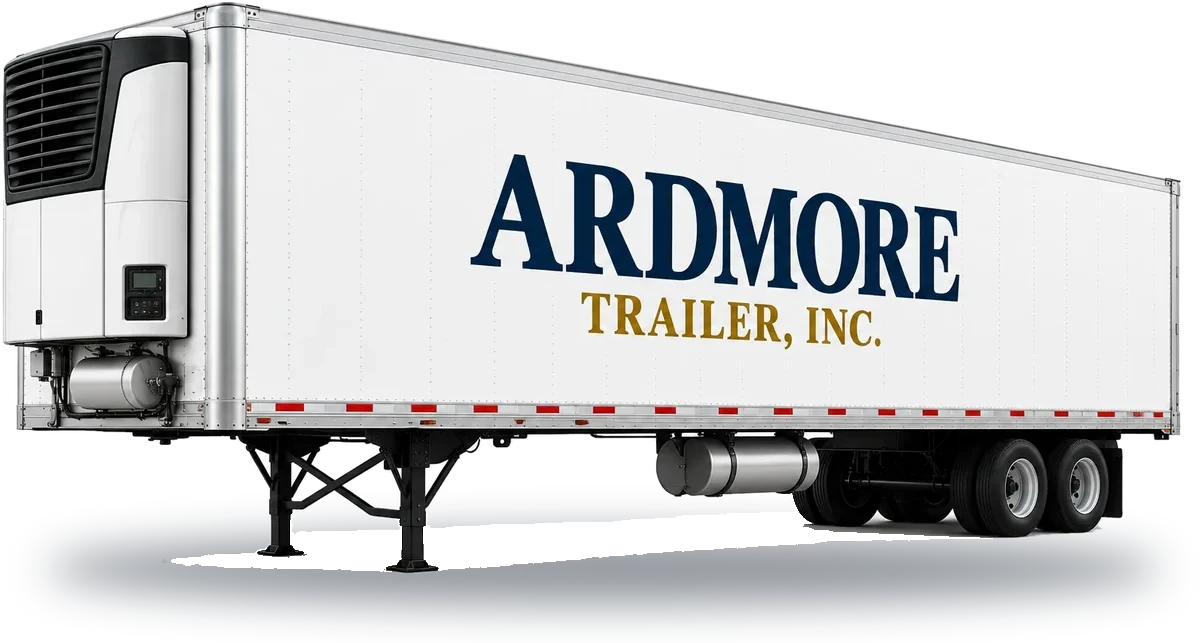
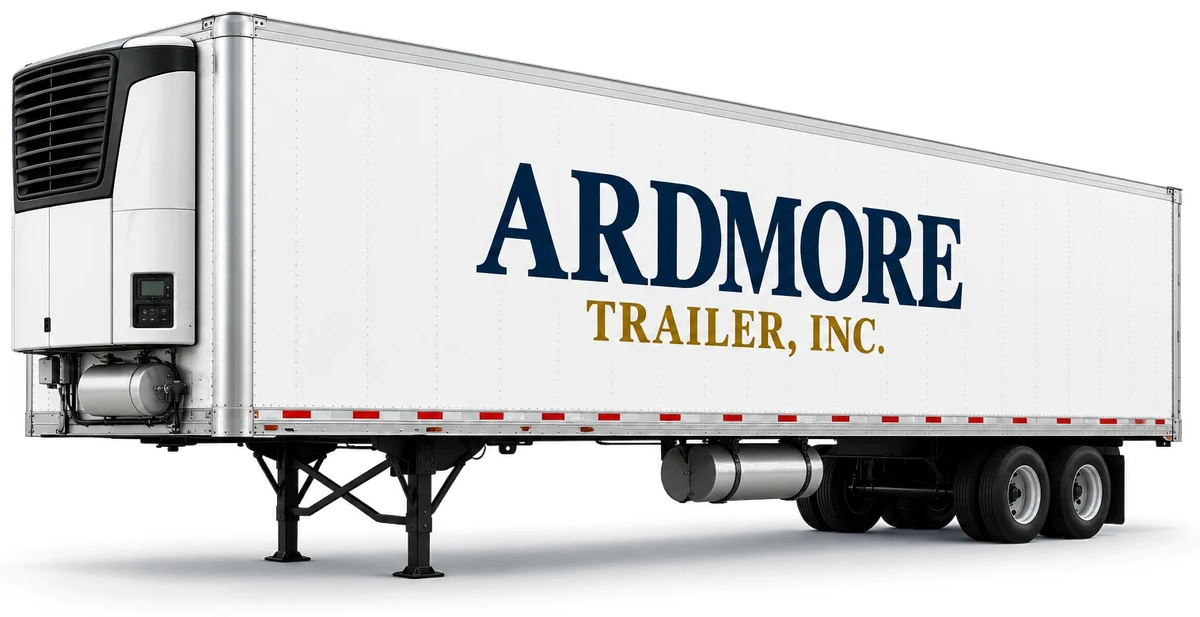
New trailer images, whole slide photos, readable hovers, light footer
- Dry van and refrigerated diesel trailers: the new renders, cut out with
  their own original shadow kept (used everywhere these units appear)
- Hero slides always show the whole photo (no cropping at 100% zoom);
  any small leftover space is filled with a soft blurred copy; photo
  sits under the text below 1280px
- Buttons: hover never hides text (outline buttons and industry pills
  fill navy with white text); 354 links/buttons checked on 9 pages
- Footer in the light scheme: navy "Ready to rent?" block, white block
  with the columns, light bottom bar; light units strip below

Claude-Session: https://claude.ai/code/session_019vMVwbxBy454t19XxiAtVu

diff --git a/src/app/components/common/Footer.jsx b/src/app/components/common/Footer.jsx
@@ -27,7 +27,7 @@ function ColHeading({ children }) {
   return (
     <h3
       className="text-xs font-bold tracking-[0.2em] uppercase mb-5 pb-3 border-b"
-      style={{ color: "#c9a84c", borderColor: "#1e4d7b" }}
+      style={{ color: "#86671e", borderColor: "#e1e8f0" }}
     >
       {children}
     </h3>
@@ -43,8 +43,8 @@ function FooterLink({ href, children }) {
     href.startsWith("http");
 
   const cls =
-    "group flex items-start gap-2 text-sm leading-snug mb-3 transition-colors hover:text-white";
-  const style = { color: "#a9c1d4" };
+    "group flex items-start gap-2 text-sm leading-snug mb-3 transition-colors text-[#4a6b85] hover:text-[#0f2d4a]";
+  const style = undefined;
 
   if (isExternal) {
     return (
@@ -98,15 +98,11 @@ export default function Footer({ site, footer, fleet, services }) {
   ];
 
   return (
-    <footer style={{ backgroundColor: "#0a2038" }}>
+    <footer className="wrap">
 
-      {/* ── CTA strip ── */}
-      <div
-        className="border-b"
-        // Steel blue band: separate from the page above and the footer below
-        style={{ borderColor: "#2a5a88", backgroundColor: "#163f66" }}
-      >
-        <div className="wrap py-8 flex flex-col sm:flex-row items-center justify-between gap-4">
+      {/* ── CTA strip: one navy highlight block ── */}
+      <div className="panel-navy">
+        <div className="px-6 sm:px-10 py-7 flex flex-col sm:flex-row items-center justify-between gap-4">
           <div>
             <p
               className="text-xs font-bold tracking-widest uppercase mb-1"
@@ -121,8 +117,7 @@ export default function Footer({ site, footer, fleet, services }) {
           <div className="flex items-center gap-3 shrink-0">
             <a
               href={site.phoneHref}
-              className="flex items-center gap-2 px-5 py-2.5 rounded font-bold text-sm tracking-wide border-2 transition-all hover:brightness-110"
-              style={{ borderColor: "#a9c1d4", color: "#a9c1d4" }}
+              className="flex items-center gap-2 px-5 py-2.5 rounded font-bold text-sm tracking-wide border-2 transition-colors text-white border-white/80 hover:bg-white hover:text-[#0f2d4a]"
             >
               <FaPhone size={13} />
               {site.phone}
@@ -138,25 +133,25 @@ export default function Footer({ site, footer, fleet, services }) {
         </div>
       </div>
 
-      {/* ── 4-column grid ── */}
-      <div className="wrap py-14">
+      {/* ── 4-column grid: white block ── */}
+      <div className="panel mt-[var(--gap)] px-6 sm:px-10 py-10 lg:py-12">
         <div className="grid grid-cols-2 md:grid-cols-4 gap-10 lg:gap-8">
 
           {/* Col 1 — Company (enhanced: includes logo + blurb) */}
           <div className="col-span-2 md:col-span-1">
             {/* Wordmark */}
             <Link href="/" className="inline-block mb-5 transition-opacity hover:opacity-90" aria-label="Home">
-              <TextLogo top={site.logoTop} bottom={site.logoBottom} size="lg" />
+              <TextLogo top={site.logoTop} bottom={site.logoBottom} size="lg" onLight />
             </Link>
 
-            <p className="text-sm leading-relaxed mb-5" style={{ color: "#a9c1d4" }}>
+            <p className="text-sm leading-relaxed mb-5" style={{ color: "#4a6b85" }}>
               {footer.blurb}
             </p>
 
             {/* Min rental badge */}
             <span
               className="inline-flex items-center gap-2 text-xs font-bold tracking-wider uppercase px-3 py-1.5 rounded-full border"
-              style={{ borderColor: "#c9a84c", color: "#c9a84c" }}
+              style={{ borderColor: "#c9a84c", color: "#86671e", backgroundColor: "#c9a84c14" }}
             >
               <FaTruck size={11} />
               {site.minRental}
@@ -181,14 +176,11 @@ export default function Footer({ site, footer, fleet, services }) {
       </div>
 
       {/* ── Bottom bar ── */}
-      <div
-        className="border-t"
-        style={{ borderColor: "#1e4d7b" }}
-      >
-        <div className="wrap py-5 flex flex-col sm:flex-row items-center justify-between gap-3">
+      <div>
+        <div className="py-6 flex flex-col sm:flex-row items-center justify-between gap-3">
 
           {/* Copyright */}
-          <p className="text-xs text-center sm:text-left" style={{ color: "#a9c1d4" }}>
+          <p className="text-xs text-center sm:text-left" style={{ color: "#4a6b85" }}>
             © {currentYear} {site.name}{`. ${footer.copyright}`}
           </p>
 
@@ -198,28 +190,25 @@ export default function Footer({ site, footer, fleet, services }) {
               href={site.mapsHref}
               target="_blank"
               rel="noopener noreferrer"
-              className="flex items-center gap-1.5 text-xs transition-colors hover:text-white"
-              style={{ color: "#a9c1d4" }}
+              className="flex items-center gap-1.5 text-xs transition-colors text-[#4a6b85] hover:text-[#0f2d4a]"
             >
-              <FaLocationDot size={11} style={{ color: "#c9a84c" }} />
+              <FaLocationDot size={11} style={{ color: "#86671e" }} />
               {site.city}, {site.state} {site.zip}
             </a>
 
             <a
               href={site.phoneHref}
-              className="flex items-center gap-1.5 text-xs transition-colors hover:text-white"
-              style={{ color: "#a9c1d4" }}
+              className="flex items-center gap-1.5 text-xs transition-colors text-[#4a6b85] hover:text-[#0f2d4a]"
             >
-              <FaPhone size={11} style={{ color: "#c9a84c" }} />
+              <FaPhone size={11} style={{ color: "#86671e" }} />
               {site.phone}
             </a>
 
             <a
               href={site.emailHref}
-              className="flex items-center gap-1.5 text-xs transition-colors hover:text-white"
-              style={{ color: "#a9c1d4" }}
+              className="flex items-center gap-1.5 text-xs transition-colors text-[#4a6b85] hover:text-[#0f2d4a]"
             >
-              <FaEnvelope size={11} style={{ color: "#c9a84c" }} />
+              <FaEnvelope size={11} style={{ color: "#86671e" }} />
               {site.email}
             </a>
           </div>

diff --git a/src/app/components/pages/home/Hero.jsx b/src/app/components/pages/home/Hero.jsx
@@ -36,17 +36,25 @@ function SlideDots({ count, current, onPick, className = "" }) {
   );
 }
 
+// Each slide always shows the WHOLE photo (never cropped). If the frame is
+// a little wider or taller than the photo, the leftover space is filled
+// with a soft, blurred copy of the same photo instead of empty bars.
 function Slides({ images, current }) {
   return images.map((src, index) => (
     <div
       key={index}
-      className={`absolute inset-0 bg-cover transition-opacity duration-1000 ease-in-out motion-reduce:transition-none ${
+      className={`absolute inset-0 overflow-hidden transition-opacity duration-1000 ease-in-out motion-reduce:transition-none ${
         index === current ? "opacity-100" : "opacity-0"
       }`}
-      // Crop focus a little right of centre: the slide photos keep their
-      // subject and lettering there, so narrow panels don't cut the name.
-      style={{ backgroundImage: `url('${src}')`, backgroundPosition: "60% 50%" }}
-    />
+    >
+      <div
+        className="absolute -inset-6 bg-cover bg-center blur-xl scale-110 opacity-70"
+        style={{ backgroundImage: `url('${src}')` }}
+        aria-hidden="true"
+      />
+      {/* eslint-disable-next-line @next/next/no-img-element */}
+      <img src={src} alt="" className="absolute inset-0 w-full h-full object-contain" draggable="false" loading={index === 0 ? "eager" : "lazy"} />
+    </div>
   ));
 }
 
@@ -58,7 +66,7 @@ const subscribeReducedMotion = (cb) => {
 };
 const getReducedMotion = () => window.matchMedia("(prefers-reduced-motion: reduce)").matches;
 
-const HEADLINE_CLASS = "text-4xl sm:text-5xl lg:text-[2.4rem] xl:text-[2.75rem] 2xl:text-[3.25rem] font-black leading-[1.08] mb-6";
+const HEADLINE_CLASS = "text-4xl sm:text-5xl xl:text-[2.6rem] 2xl:text-[3.1rem] font-black leading-[1.08] mb-5";
 // Photo layout = light (white block); cards layout = dark (over photos).
 const GOLD_HEADING = "var(--gold-heading)";
 const HEADLINE_STYLE = { fontFamily: "'Georgia', 'Times New Roman', serif" };
@@ -105,9 +113,9 @@ function MainText({ hero, light }) {
 const isExternal = (href) => /^https?:\/\//i.test(href || "");
 
 function SecondaryButton({ button, light }) {
-  const cls = `inline-flex items-center justify-center gap-2 px-6 xl:px-7 py-3.5 rounded font-bold text-sm tracking-wider uppercase whitespace-nowrap border-2 transition-all duration-200 ${light ? "hover:bg-[#0f2d4a] hover:text-white" : "hover:bg-white/10"}`;
+  const cls = `inline-flex items-center justify-center gap-2 px-6 xl:px-7 py-3.5 rounded font-bold text-sm tracking-wider uppercase whitespace-nowrap ${light ? "btn-outline-navy" : "border-2 transition-all duration-200 hover:bg-white/10"}`;
   const style = light
-    ? { borderColor: NAVY, color: NAVY }
+    ? undefined
     : { borderColor: "rgba(255,255,255,0.85)", color: "#ffffff", backgroundColor: "rgba(10,32,56,0.35)" };
   const inner = (
     <>
@@ -209,8 +217,8 @@ export default function Hero({ hero, site, fleet, compact = false }) {
       <section className="page-section wrap" aria-roledescription="carousel" aria-label="Highlights" {...pauseProps}>
         {/* One white block: text on the left, the slide photo on the right
             (below the text on phones). Nothing ever sits on the photo. */}
-        <div className="panel overflow-hidden lg:grid lg:grid-cols-[46fr_54fr] xl:grid-cols-[44fr_56fr]">
-          <div className="flex items-center p-7 sm:p-10 lg:p-12 xl:p-14">
+        <div className="panel overflow-hidden xl:grid xl:grid-cols-[41fr_59fr] 2xl:grid-cols-[40fr_60fr]">
+          <div className="flex items-center p-7 sm:p-10 xl:p-11 2xl:p-14">
             <div className="w-full">
               {mainIndex === -1 ? (
                 <h1 className="sr-only">{`${hero.titleStart} ${hero.titleAccent1} ${hero.titleJoin} ${hero.titleAccent2} ${hero.titleLine2} ${hero.titleAccent3}`.replace(/\s+/g, " ").trim()}</h1>
@@ -258,13 +266,13 @@ export default function Hero({ hero, site, fleet, compact = false }) {
           </div>
 
           {slideCount ? (
-            <div className="relative min-h-[240px] sm:min-h-[360px] lg:min-h-[520px] aspect-[3/2] lg:aspect-auto">
+            <div className="relative aspect-[3/2] xl:aspect-auto xl:min-h-[440px]">
               <div className="absolute inset-0" aria-hidden="true">
                 <Slides images={SLIDER_IMAGES} current={currentSlide} />
               </div>
               {/* Thin gold line where text and photo meet */}
-              <div className="absolute hidden lg:block inset-y-0 left-0 w-[3px]" style={{ backgroundColor: "#c9a84c" }} aria-hidden="true" />
-              <div className="absolute lg:hidden inset-x-0 top-0 h-[3px]" style={{ backgroundColor: "#c9a84c" }} aria-hidden="true" />
+              <div className="absolute hidden xl:block inset-y-0 left-0 w-[3px] z-[1]" style={{ backgroundColor: "#c9a84c" }} aria-hidden="true" />
+              <div className="absolute xl:hidden inset-x-0 top-0 h-[3px] z-[1]" style={{ backgroundColor: "#c9a84c" }} aria-hidden="true" />
               <SlideDots count={slideCount} current={currentSlide} onPick={pickSlide} className="absolute z-10 bottom-4 right-4 rounded-full px-2.5 py-2 bg-[#0a2038]/70" />
             </div>
           ) : null}

diff --git a/src/app/components/common/Convoy.jsx b/src/app/components/common/Convoy.jsx
@@ -23,7 +23,7 @@ export default function Convoy({ fleet = [] }) {
   if (!units.length) return null;
 
   return (
-    <div className="convoy relative overflow-hidden" style={{ backgroundColor: "#0a2038", borderTop: "1px solid #2a5a88" }} aria-label="Our fleet">
+    <div className="convoy relative overflow-hidden" style={{ backgroundColor: "#e6edf5", borderTop: "1px solid #d6e2ee" }} aria-label="Our fleet">
       <style>{CSS}</style>
 
       <div className="convoy-track flex w-max items-end" style={{ "--convoy-t": `${units.length * 7}s` }}>
@@ -44,7 +44,7 @@ export default function Convoy({ fleet = [] }) {
                 loading="lazy"
                 draggable="false"
               />
-              <span className="mt-1.5 whitespace-nowrap text-[11px] font-bold tracking-wide text-white group-hover:text-[#c9a84c]">
+              <span className="mt-1.5 whitespace-nowrap text-[11px] font-bold tracking-wide text-[#0f2d4a] group-hover:text-[#86671e]">
                 {u.shortName || u.name}
               </span>
             </Link>
@@ -53,7 +53,7 @@ export default function Convoy({ fleet = [] }) {
       </div>
 
       {/* Road */}
-      <div className="relative h-4" style={{ backgroundColor: "#071a2e", borderTop: "2px solid #1e3a5f" }} aria-hidden="true">
+      <div className="relative h-4" style={{ backgroundColor: "#0f2d4a", borderTop: "2px solid #c9a84c" }} aria-hidden="true">
         <div
           className="absolute inset-x-0 top-1/2 h-0.5 -translate-y-1/2"
           style={{ backgroundImage: "repeating-linear-gradient(90deg, #c9a84c66 0, #c9a84c66 24px, transparent 24px, transparent 52px)" }}

diff --git a/src/app/components/common/TextLogo.jsx b/src/app/components/common/TextLogo.jsx
@@ -3,23 +3,23 @@
 //  "ARDMORE" in white bold serif with
 //  "TRAILER, INC." in gold underneath — the same
 //  lettering as on every unit in the fleet
-//  images. Used on the dark header and footer.
+//  images. White on the dark header; navy (onLight) in the light footer.
 //  Text comes from Admin → Business (logo lines).
 // ─────────────────────────────────────────────
 
-export default function TextLogo({ top, bottom, size = "md" }) {
+export default function TextLogo({ top, bottom, size = "md", onLight = false }) {
   const big = size === "lg";
   return (
     <span className="flex flex-col items-start leading-none">
       <span
-        className={`font-black text-white ${big ? "text-[32px]" : "text-[24px] lg:text-[30px]"}`}
-        style={{ fontFamily: "'Georgia', 'Times New Roman', serif", letterSpacing: "0.02em" }}
+        className={`font-black ${big ? "text-[32px]" : "text-[24px] lg:text-[30px]"}`}
+        style={{ fontFamily: "'Georgia', 'Times New Roman', serif", letterSpacing: "0.02em", color: onLight ? "#0f2d4a" : "#ffffff" }}
       >
         {top}
       </span>
       <span
         className={`mt-1 font-bold uppercase ${big ? "text-[11px]" : "text-[9px] lg:text-[10.5px]"}`}
-        style={{ fontFamily: "'Georgia', 'Times New Roman', serif", color: "#c9a84c", letterSpacing: "0.28em" }}
+        style={{ fontFamily: "'Georgia', 'Times New Roman', serif", color: onLight ? "#86671e" : "#c9a84c", letterSpacing: "0.28em" }}
       >
         {bottom}
       </span>

diff --git a/src/app/globals.css b/src/app/globals.css
@@ -90,3 +90,30 @@ body:has(#admin-root) {
 @media (min-width: 3200px) { body { zoom: 1.6; } }
 @media (min-width: 3600px) { body { zoom: 1.8; } }
 @media (min-width: 4000px) { body { zoom: 2; } }
+
+/* ── Outline buttons on light backgrounds ──
+   Navy text and border; on hover the button fills navy and the text (and
+   any icon using currentColor) turns white, so it never disappears. */
+.btn-outline-navy {
+  color: #0f2d4a;
+  border: 2px solid #0f2d4a;
+  background: transparent;
+  transition: background-color 0.2s, color 0.2s, border-color 0.2s;
+}
+.btn-outline-navy:hover,
+.btn-outline-navy:focus-visible {
+  color: #ffffff;
+  background: #0f2d4a;
+}
+.pill-outline-navy {
+  color: #0f2d4a;
+  border: 1px solid #c9d8e6;
+  background: #ffffff;
+  transition: background-color 0.2s, color 0.2s, border-color 0.2s;
+}
+.pill-outline-navy:hover,
+.pill-outline-navy:focus-visible {
+  color: #ffffff;
+  background: #0f2d4a;
+  border-color: #0f2d4a;
+}

diff --git a/src/app/components/pages/home/Trustbar.jsx b/src/app/components/pages/home/Trustbar.jsx
@@ -56,8 +56,7 @@ export default function TrustBar({ trustBar, site, services }) {
               <Link
                 key={service.id}
                 href={`/fleet?industry=${service.id}`}
-                className="inline-flex items-center gap-1.5 px-3.5 py-1.5 rounded-full text-xs font-bold tracking-wider uppercase border transition-all duration-200 hover:bg-[#0f2d4a] hover:text-white group"
-                style={{ borderColor: "#c9d8e6", color: NAVY }}
+                className="pill-outline-navy inline-flex items-center gap-1.5 px-3.5 py-1.5 rounded-full text-xs font-bold tracking-wider uppercase group"
               >
                 {service.label}
                 <FaChevronRight size={8} className="opacity-60 group-hover:opacity-100 transition-opacity" style={{ color: "#c9a84c" }} />

diff --git a/src/app/components/pages/home/YardSection.jsx b/src/app/components/pages/home/YardSection.jsx
@@ -111,8 +111,7 @@ export default function YardSection({ yard, site }) {
                   href={site.salesMapsHref}
                   target="_blank"
                   rel="noopener noreferrer"
-                  className="inline-flex items-center gap-2 px-5 py-3 rounded border-2 text-sm font-bold uppercase tracking-wider transition-colors hover:bg-[#0f2d4a] hover:text-white"
-                  style={{ color: "#0f2d4a", borderColor: "#0f2d4a" }}
+                  className="btn-outline-navy inline-flex items-center gap-2 px-5 py-3 rounded text-sm font-bold uppercase tracking-wider"
                 >
                   <FaLocationDot size={13} style={{ color: "#c9a84c" }} />
                   {yard.directionsLabel}
